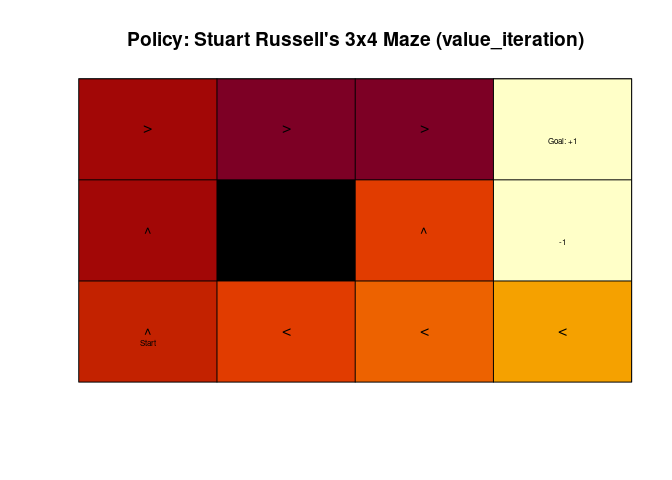
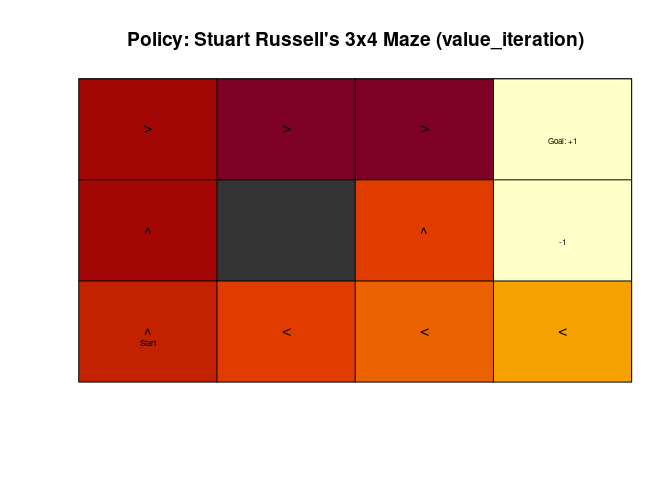
renamed belief to distribution. Fixed plotting unsolved gridworld.

Changed region(s): [[0.3125, 0.375, 0.5312, 0.5938]]

diff --git a/README.md b/README.md
@@ -97,10 +97,11 @@ Maze
     ##   Discount factor: 1
     ##   Horizon: Inf epochs
     ##   Size: 11 states / 4 actions
-    ##   Start: s(3,1)
+    ##   Start: 0, 0, 1, 0, 0, 0, 0, 0, 0, 0, 0
     ## 
     ##   List components: 'name', 'discount', 'horizon', 'states', 'actions',
-    ##     'transition_prob', 'reward', 'info', 'start'
+    ##     'transition_prob', 'reward', 'info', 'start', 'absorbing_states',
+    ##     'unreachable_states'
 
 ``` r
 gridworld_plot(Maze)
@@ -117,13 +118,14 @@ sol
     ##   Discount factor: 1
     ##   Horizon: Inf epochs
     ##   Size: 11 states / 4 actions
-    ##   Start: s(3,1)
+    ##   Start: 0, 0, 1, 0, 0, 0, 0, 0, 0, 0, 0
     ##   Solved:
     ##     Method: 'value_iteration'
     ##     Solution converged: TRUE
     ## 
     ##   List components: 'name', 'discount', 'horizon', 'states', 'actions',
-    ##     'transition_prob', 'reward', 'info', 'start', 'solution'
+    ##     'transition_prob', 'reward', 'info', 'start', 'absorbing_states',
+    ##     'unreachable_states', 'solution'
 
 Display the value function.
 
